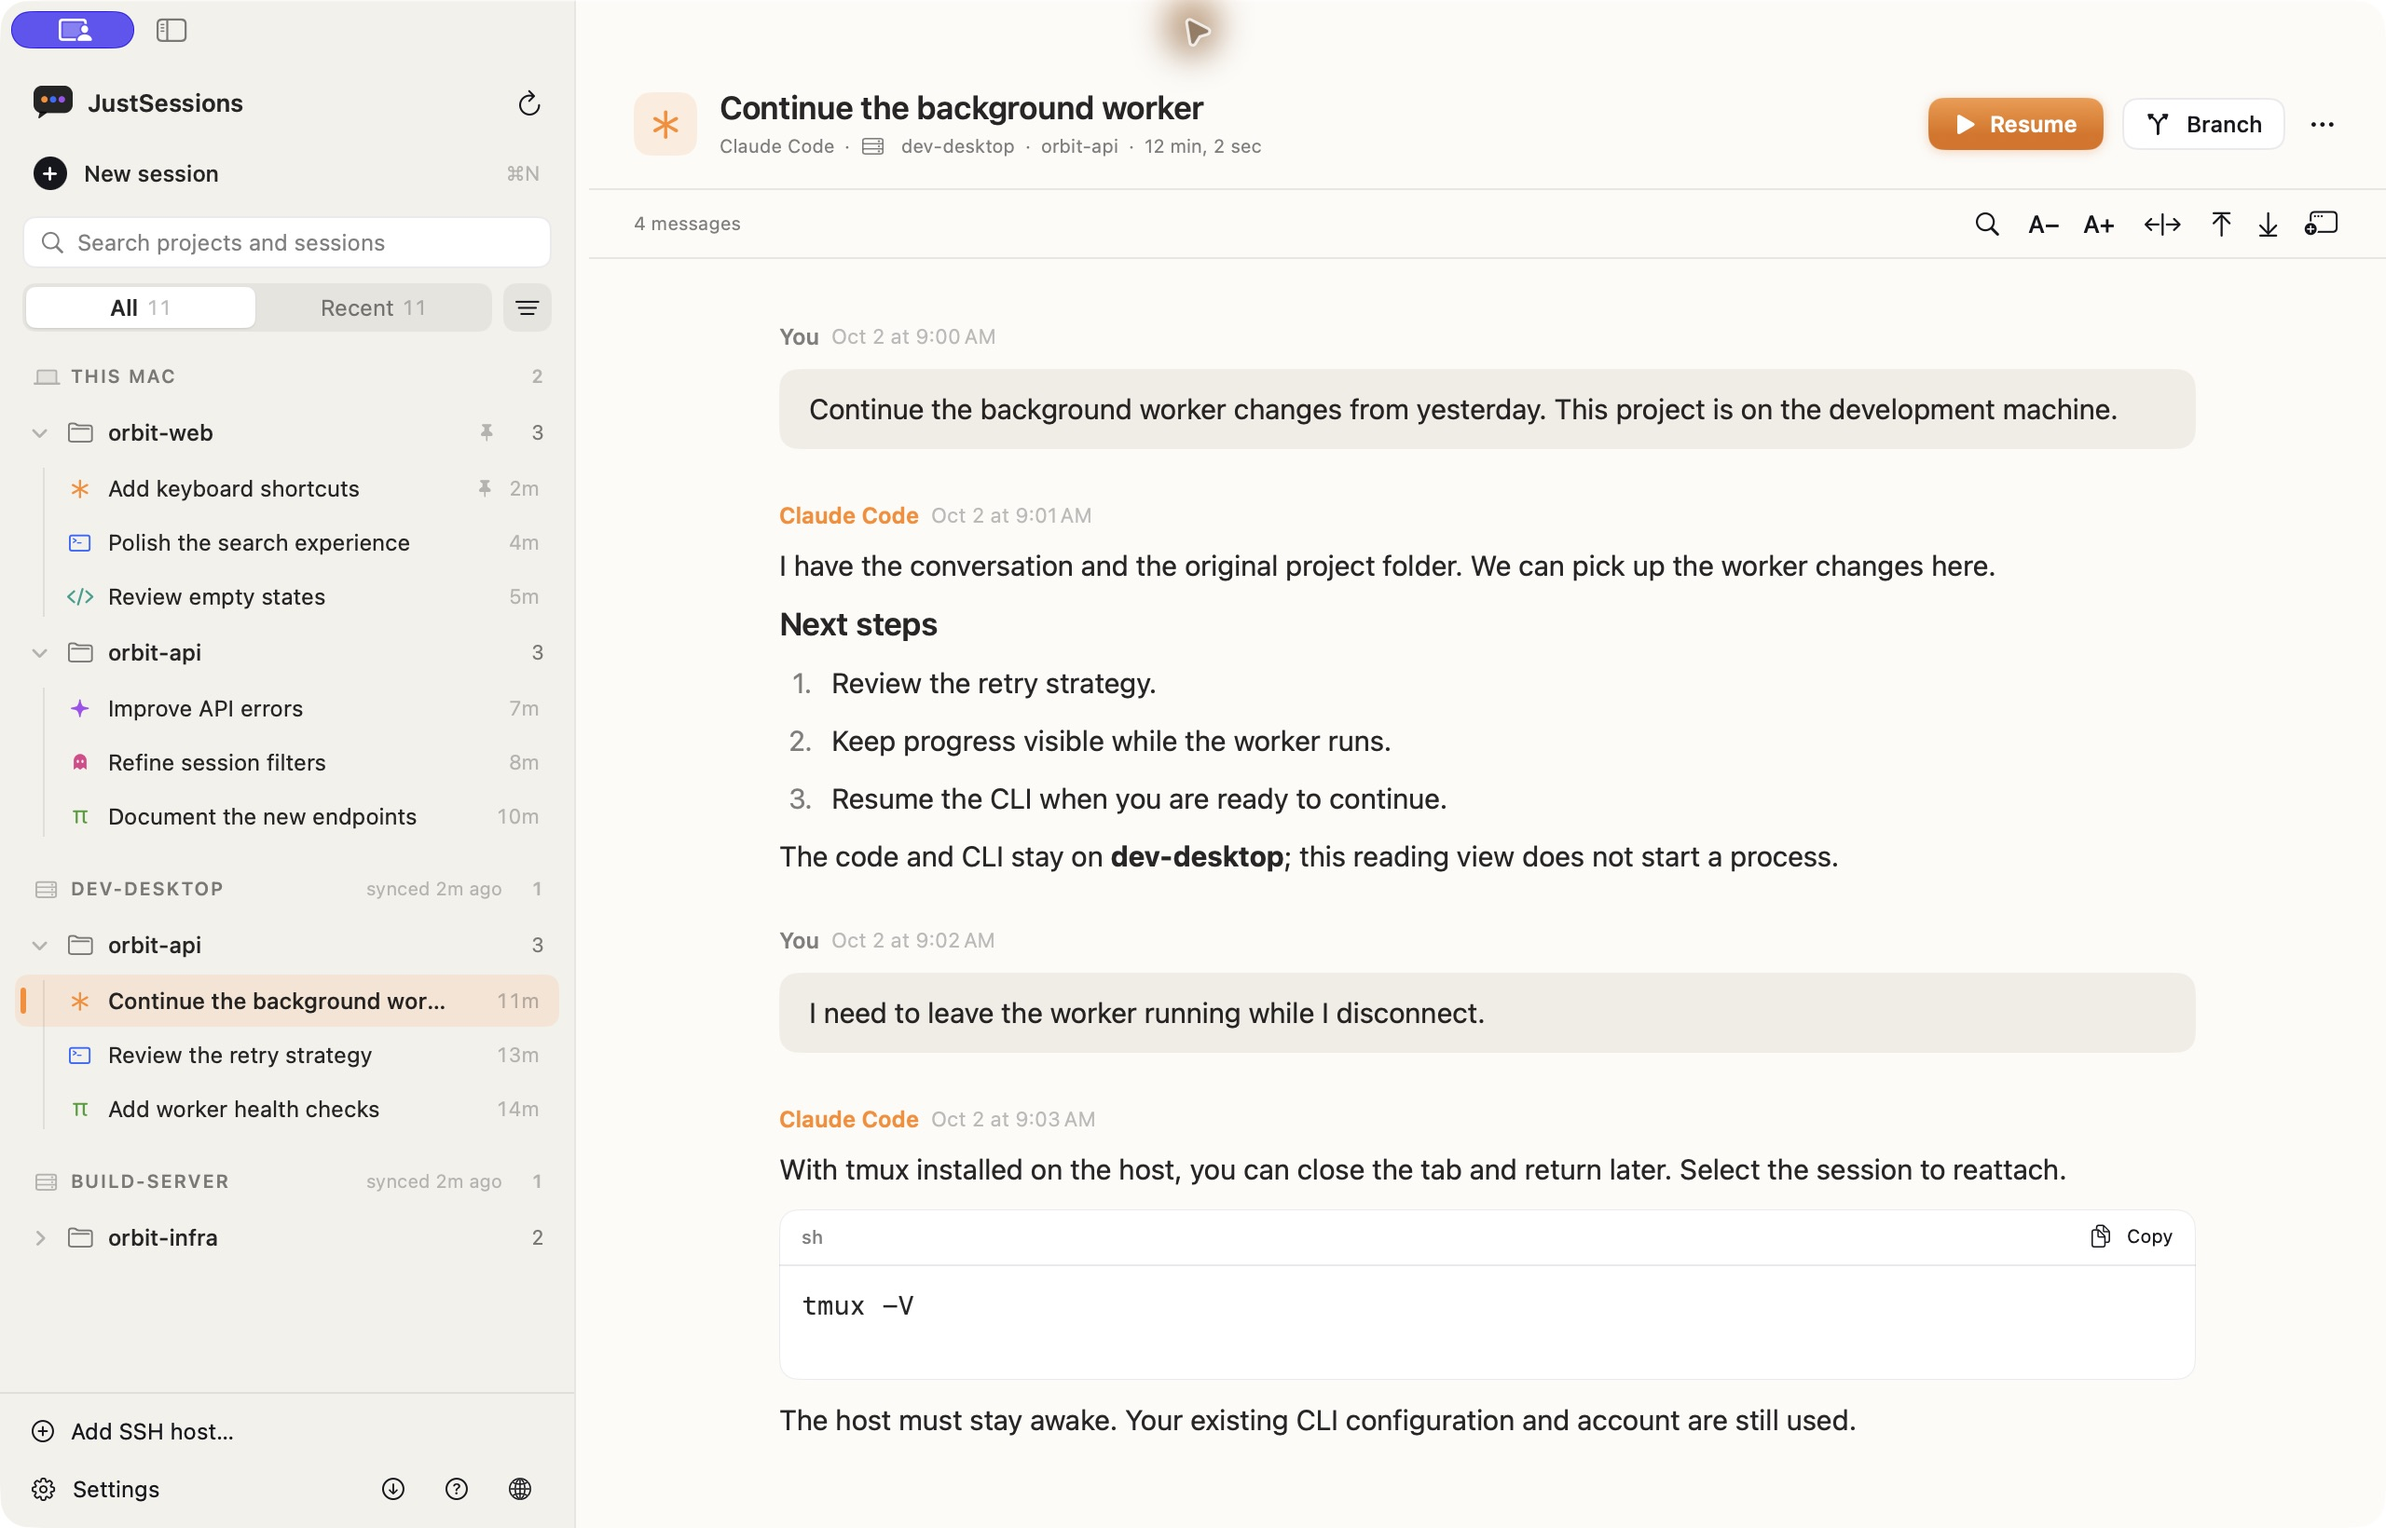
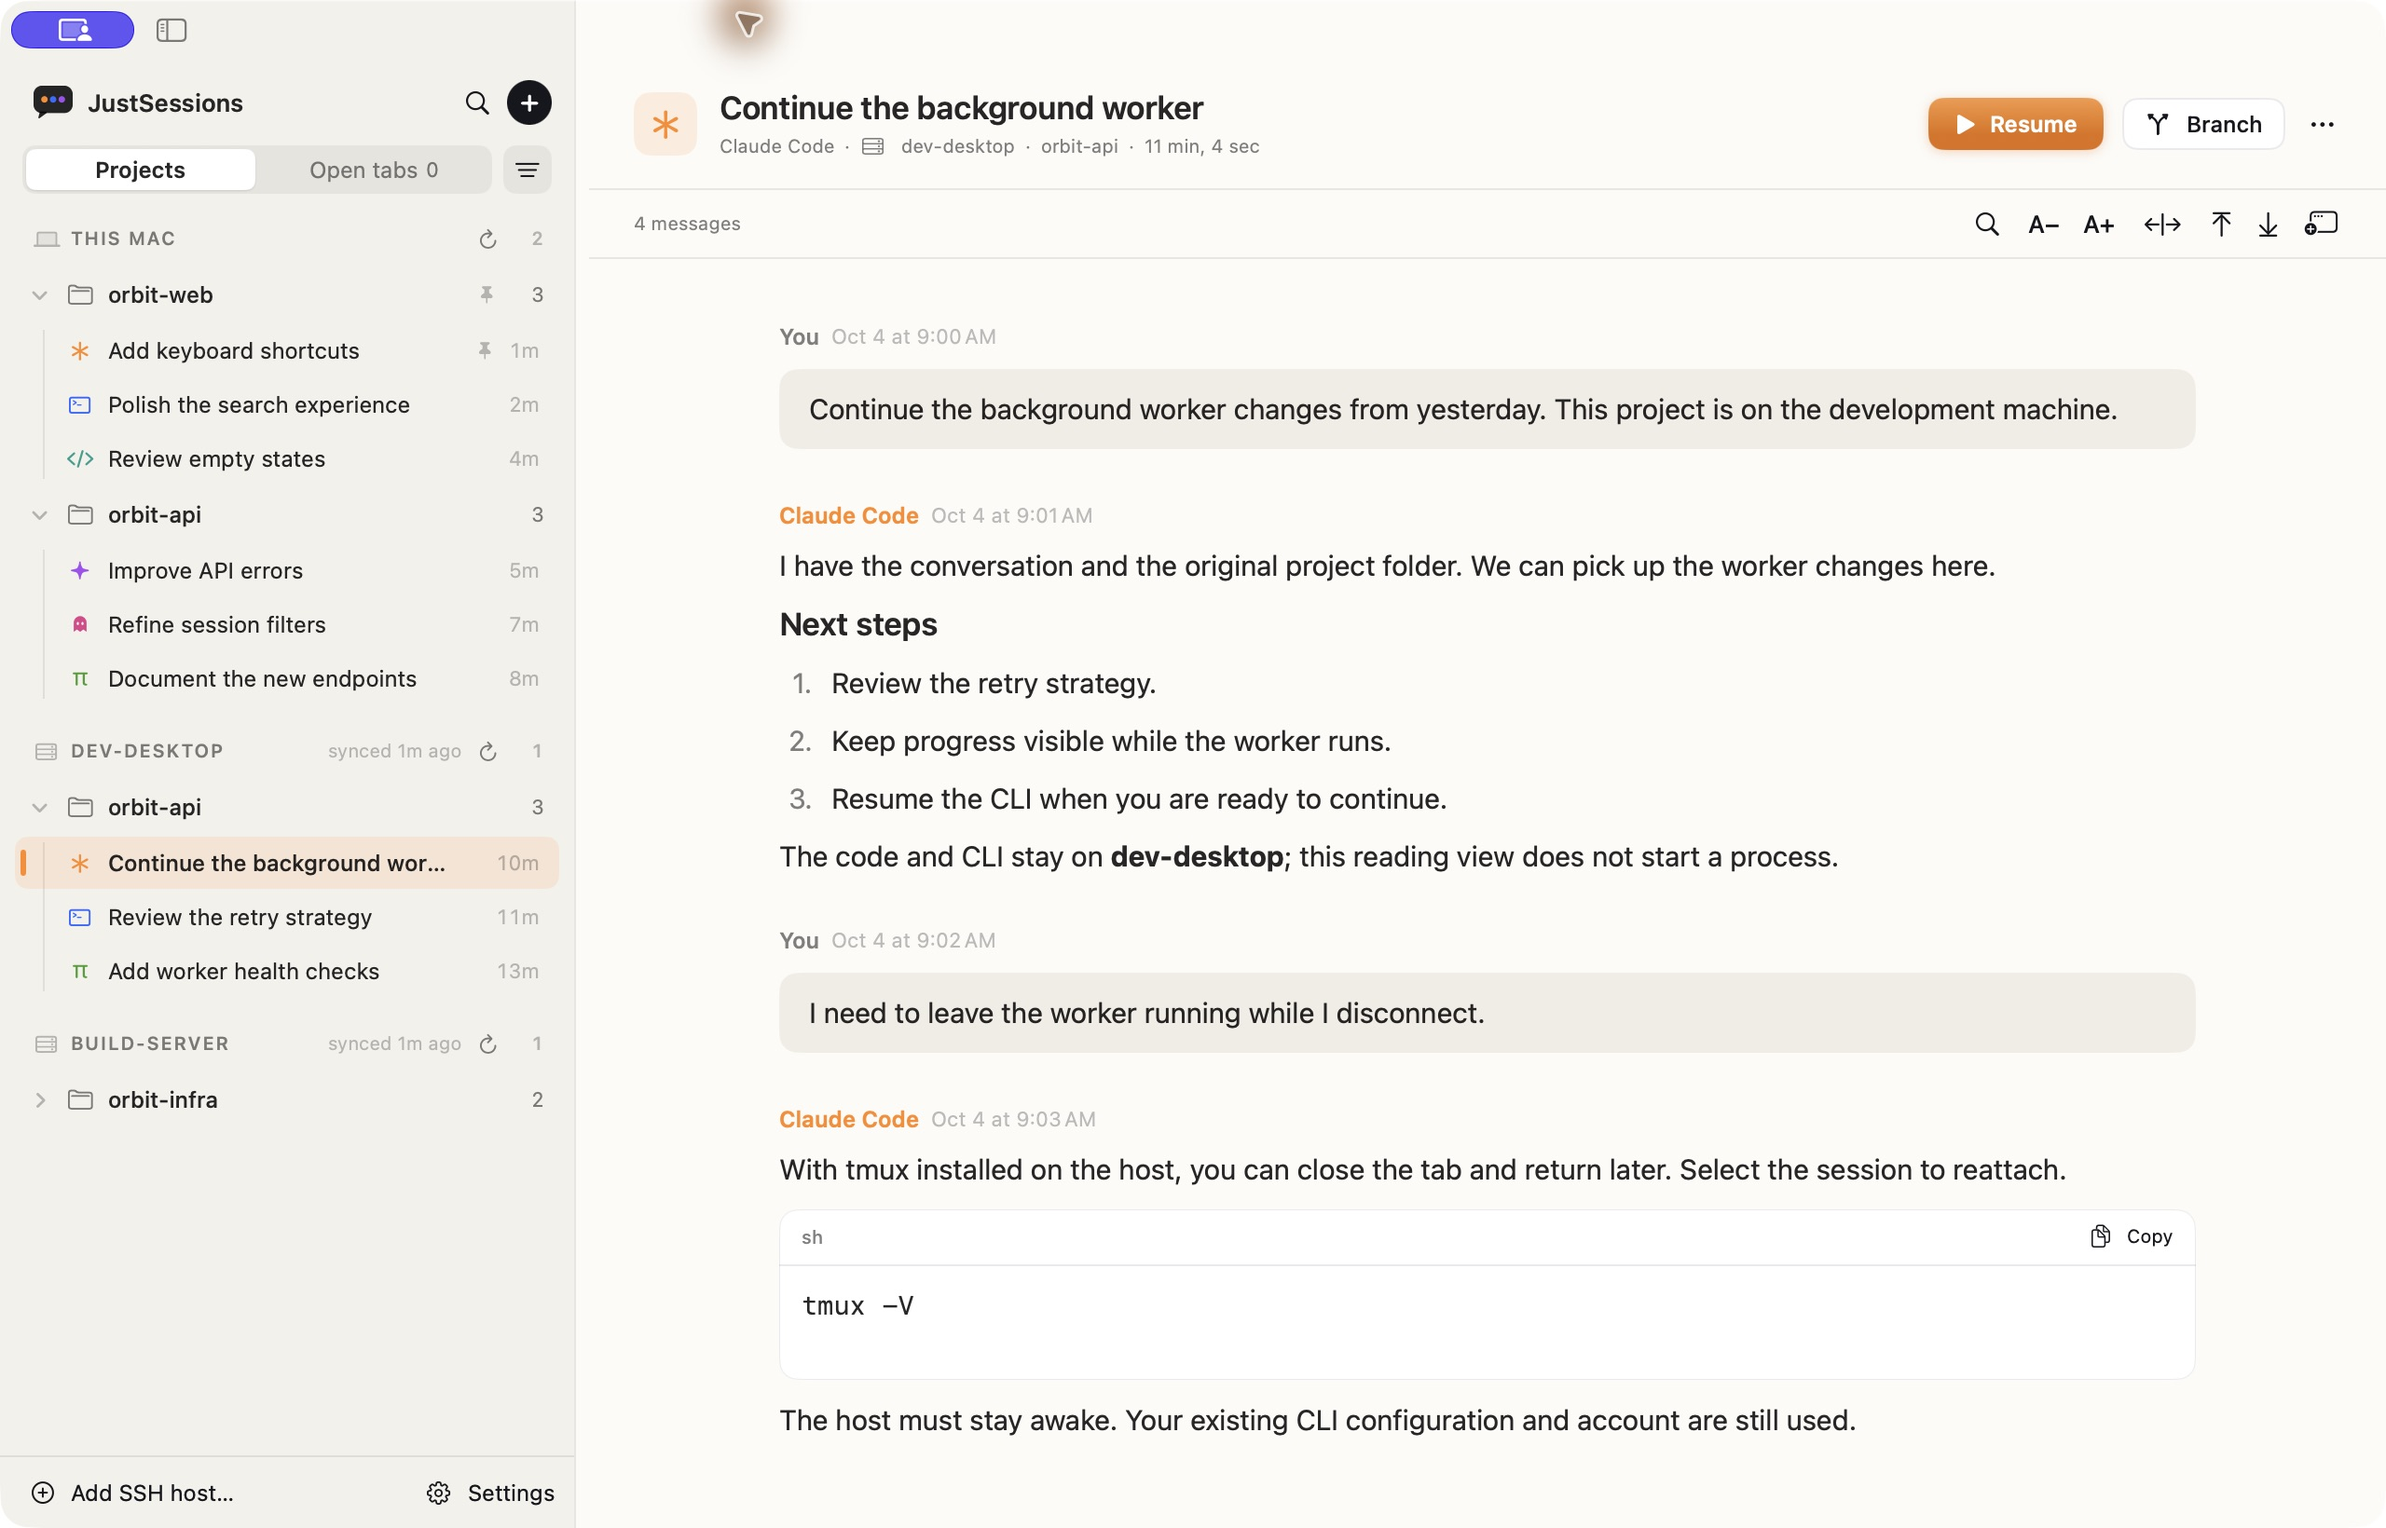
Show the native Claude Code terminal on the homepage

diff --git a/website/index.html b/website/index.html
@@ -29,6 +29,7 @@
   <link rel="stylesheet" href="./styles/hero.css">
   <link rel="stylesheet" href="./styles/providers.css">
   <link rel="stylesheet" href="./styles/features.css">
+  <link rel="stylesheet" href="./styles/terminal.css">
   <link rel="stylesheet" href="./styles/details.css">
   <link rel="stylesheet" href="./styles/responsive.css">
   <script type="application/ld+json">
@@ -86,7 +87,7 @@
         <a href="./assets/session-overview.jpg" aria-label="View the JustSessions app screenshot at full size">
           <img src="./assets/session-overview.jpg" width="2560" height="1640" fetchpriority="high" alt="JustSessions showing six coding CLIs grouped by project and host, a Claude Code conversation, and the reading toolbar with Find and Open in new window.">
         </a>
-        <figcaption>Real app. Sample sessions; sidebar layout shown before v0.41.</figcaption>
+        <figcaption>Real app. Sample sessions.</figcaption>
       </figure>
       <div class="provider-support">
         <p class="provider-caption">Multiple agents. All your sessions.</p>
@@ -141,6 +142,22 @@
       </div>
     </section>
 
+    <section class="terminal-section section-space page-width" id="terminal" aria-labelledby="terminal-title">
+      <div class="terminal-heading">
+        <h2 id="terminal-title">A real terminal. Built in.</h2>
+        <div class="feature-copy">
+          <p>Your agents and shell, in project tabs. Bring your iTerm2 colors.</p>
+          <a class="text-link" href="./guide.html#terminal">Terminal guide <span aria-hidden="true">→</span></a>
+        </div>
+      </div>
+      <figure class="terminal-preview">
+        <a href="./assets/native-terminal.jpg" aria-label="View Claude Code in the native terminal at full size">
+          <img src="./assets/native-terminal.jpg" width="2560" height="1640" loading="lazy" decoding="async" alt="Claude Code's interactive help screen in JustSessions' native terminal, with project tabs for Claude Code, Codex, Pi, and a shell, alongside six types of agent sessions.">
+        </a>
+        <figcaption>Real Claude Code. Sample project.</figcaption>
+      </figure>
+    </section>
+
     <section class="remote-section section-space" id="remote" aria-labelledby="remote-title">
       <div class="page-width remote-layout">
         <div class="feature-copy">
@@ -152,7 +169,7 @@
           <a href="./assets/remote-desktop-sessions.jpg" aria-label="View the remote sessions screenshot at full size">
             <img src="./assets/remote-desktop-sessions.jpg" width="2560" height="1640" loading="lazy" decoding="async" alt="The current JustSessions reading toolbar above a Claude Code conversation on the sample dev-desktop SSH host, alongside local and remote projects.">
           </a>
-          <figcaption>Sample SSH hosts and sessions; sidebar layout shown before v0.41.</figcaption>
+          <figcaption>Real app. Sample SSH hosts and sessions.</figcaption>
         </figure>
       </div>
     </section>

diff --git a/website/guide.html b/website/guide.html
@@ -117,6 +117,11 @@
         <a class="text-link" href="https://github.com/yangzichao/JustSessions/blob/main/docs/guides/session-management.md#ssh-hosts">Detailed SSH setup <span aria-hidden="true">↗</span></a>
       </section>
 
+      <section id="terminal" aria-labelledby="terminal-title">
+        <h2 id="terminal-title">Use the native terminal.</h2>
+        <p>Agent sessions and plain shells run in an embedded SwiftTerm AppKit terminal, grouped by project. Choose <strong>Open tabs</strong> to switch terminals. Under <strong>Settings → Appearance → Terminal</strong>, choose a color scheme or import your iTerm2 colors.</p>
+      </section>
+
       <section id="terminal-persistence" aria-labelledby="tmux-title">
         <h2 id="tmux-title">Keep work running with tmux</h2>
         <p>The app includes tmux for this Mac. Direct <code>swift run</code> builds need tmux 3.3+. SSH hosts need their own tmux. Choose <strong>Keep running</strong> when closing a local tab, then select its session to reattach.</p>

diff --git a/website/styles/terminal.css b/website/styles/terminal.css
@@ -1,0 +1,18 @@
+.terminal-section { border-top: 1px solid var(--line); }
+.terminal-heading { display: grid; grid-template-columns: 1fr 1fr; gap: 48px; align-items: start; margin-bottom: 28px; }
+.terminal-heading h2 { margin-bottom: 0; }
+.terminal-heading p { margin-bottom: 14px; }
+.terminal-preview { padding: 16px 16px 0; border: 1px solid var(--line); border-radius: 18px; background: var(--sidebar-surface); }
+.terminal-preview a { display: block; }
+.terminal-preview img { width: 100%; border: 1px solid var(--line); border-radius: 9px; box-shadow: 0 12px 36px var(--shadow); }
+.terminal-preview figcaption { margin: 14px 4px; text-align: center; }
+
+@media (max-width: 850px) {
+  .terminal-heading { grid-template-columns: 1fr; gap: 18px; }
+}
+
+@media (max-width: 600px) {
+  .terminal-preview { padding: 6px 6px 0; border-radius: 11px; }
+  .terminal-preview img { border-radius: 6px; }
+  .terminal-preview figcaption { font-size: 12px; margin: 11px 6px; }
+}

diff --git a/Scripts/Website/build_site.py b/Scripts/Website/build_site.py
@@ -25,7 +25,7 @@ def build_site():
     if stylesheet_directory.exists():
         shutil.rmtree(stylesheet_directory)
     shutil.copytree(WEBSITE_SOURCE_DIRECTORY / "styles", stylesheet_directory)
-    for image_name in ("session-overview.jpg", "remote-desktop-sessions.jpg", "tmux-keep-running.jpg"):
+    for image_name in ("session-overview.jpg", "native-terminal.jpg", "remote-desktop-sessions.jpg", "tmux-keep-running.jpg"):
         shutil.copy2(REPOSITORY_DIRECTORY / "docs/images" / image_name, asset_directory / image_name)
     for asset_path in ("Branding/SVG/mark.svg", "Branding/PNG/app-icon-256.png", "website/social/social-preview.png"):
         shutil.copy2(REPOSITORY_DIRECTORY / asset_path, asset_directory / Path(asset_path).name)

diff --git a/docs/images/README.md b/docs/images/README.md
@@ -1,13 +1,16 @@
 # README screenshots
 
-These are unedited JPEG captures of the actual JustSessions SwiftUI interface. The overview and SSH captures were refreshed from revision `badb934` on October 2, 2026, using the current production views and models in a separate local screenshot app. The tmux dialog was captured from revision `7439345` on September 29, 2026. The normal app and its saved sessions were not used as screenshot content.
+These are unedited JPEG captures of the actual JustSessions SwiftUI interface. The overview, SSH, and native terminal captures were refreshed on October 4, 2026, using the current production views and models in a separate local screenshot app. The capture build was based on revision `78c924c`, including local sidebar and button styling changes in progress at capture time. The tmux dialog was captured from revision `7439345` on September 29, 2026. The normal app and its saved conversations were not used as screenshot content.
 
 | Image | What it shows |
 | --- | --- |
-| [session-overview.jpg](session-overview.jpg) | All six CLI icons, pinned sessions, the sidebar's Settings/Help/website controls, and the current reading toolbar with Find and Open in new window. |
+| [session-overview.jpg](session-overview.jpg) | All six CLI icons, pinned sessions, Projects / Open tabs navigation, per-host refresh buttons, and the reading toolbar with Find and Open in new window. |
+| [native-terminal.jpg](native-terminal.jpg) | The installed Claude Code CLI's real interactive `/help` screen in the native terminal, with project tab groups, agent icons, and a plain shell tab. |
 | [remote-desktop-sessions.jpg](remote-desktop-sessions.jpg) | A selected Claude Code conversation under the sample `dev-desktop` SSH host with the current sidebar and reading controls. |
 | [tmux-keep-running.jpg](tmux-keep-running.jpg) | The real close-tab confirmation with **Keep running**, **End session**, and **Cancel**. |
 
-`orbit-web`, `orbit-api`, `orbit-infra`, the host names, and all conversation text are illustrative. The remote host data was supplied as a fixture; these images do not document a live SSH connection. The terminal example used a sample process in a separate tmux server, and that process remained running after the screenshot app quit. The example does not run an AI provider or consume model credits.
+`orbit-web`, `orbit-api`, `orbit-infra`, the host names, and all saved conversation text are illustrative. The remote host data was supplied as a fixture; these images do not document a live SSH connection.
 
-When replacing these images, capture the current native interface with sample data, retain the real feature labels, and update the source revision above. The October captures used the debug objects from `make verify`, excluding the normal app entry point, linked to a temporary sample-data app with background polling disabled. They show reading, without launching a CLI or making an SSH connection. Keep each screenshot's descriptive alt text and sample-data caption in the [main README](../../README.md).
+The native terminal screenshot runs the installed Claude Code CLI in the sample project and displays its local help screen. No model prompt was submitted. The other agent-associated tabs use sample shell processes to illustrate navigation; they do not show Codex or Pi model activity. The plain terminal runs a shell in a temporary sample Git project. The older tmux dialog used a sample process in a separate tmux server, which remained running after the screenshot app quit.
+
+When replacing these images, capture the current native interface with sample data, retain the real feature labels, and update the source revision above. The October 4 captures used debug objects from `make check`, excluding the normal app entry point, linked to a temporary sample-data app with background polling disabled. Only the native terminal capture launches Claude Code; none makes an SSH connection. Keep each screenshot's descriptive alt text and sample-data caption in the [main README](../../README.md).

diff --git a/docs/guides/getting-started.md b/docs/guides/getting-started.md
@@ -33,7 +33,7 @@ Choose **Open tabs** to switch between this window's terminals; each row shows i
 
 Click the new-window button in the preview's reading toolbar to open a dedicated reading window. Adjust text with **A− / A+**, switch between a readable column and the full window width, jump to the first or latest message, and copy code without starting the CLI. [Reading controls and position memory](session-management.md#preview-before-you-resume).
 
-The **+** at the top of the sidebar, or **⌘N**, opens **New session**: start an installed CLI in a project folder, or choose **Terminal** to open your login shell instead. A project's **+** menu offers the same. Project tab groups and [keyboard shortcuts](session-management.md#tab-keyboard-shortcuts) help you switch between open terminals.
+The **+** at the top of the sidebar, or **⌘N**, opens **New session**: start an installed CLI in a project folder, or choose **Terminal** to open your login shell instead. A project's **+** menu offers the same. Both use SwiftTerm's native AppKit terminal. Project tab groups and [keyboard shortcuts](session-management.md#tab-keyboard-shortcuts) help you switch between open terminals; **Settings → Appearance → Terminal** also lets you import your iTerm2 colors.
 
 ## Use another machine over SSH
 

diff --git a/README.md b/README.md
@@ -39,6 +39,14 @@
 - **Stay informed:** local Claude Code and Codex sessions can notify when a turn finishes or needs your input.
 - **Make it yours:** system, English, or Chinese interface language; six app themes, light and dark appearances, terminal color schemes or your own iTerm2 colors, and terminal font settings that update open terminals.
 
+## Native terminal
+
+**Your agents and shell, in project tabs.** JustSessions embeds SwiftTerm's native AppKit terminal. Run your CLI or open a plain project shell, switch with **Open tabs**, and import your iTerm2 colors.
+
+![Claude Code's interactive help screen in the native terminal, with project tabs and sessions from six coding agents](docs/images/native-terminal.jpg)
+
+*Real Claude Code in a sample project. The screenshot shows its local help screen.*
+
 ## Remote sessions over SSH
 
 **Use your Mac to continue Claude Code, Codex, Antigravity, Kiro CLI, OpenCode, and Pi sessions on a desktop or development server.** Add a passwordless SSH host with `rsync` and the CLI installed. The code and CLI stay on that machine; JustSessions caches session history locally.
